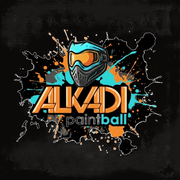
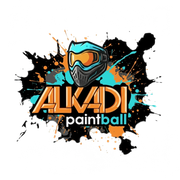
icono transparente

diff --git a/vite.config.js b/vite.config.js
@@ -28,12 +28,6 @@ export default defineConfig({
             sizes: '512x512',
             type: 'image/png',
           },
-          {
-            src: 'icon-512.png',
-            sizes: '512x512',
-            type: 'image/png',
-            purpose: 'maskable',
-          },
         ],
       },
     }),
